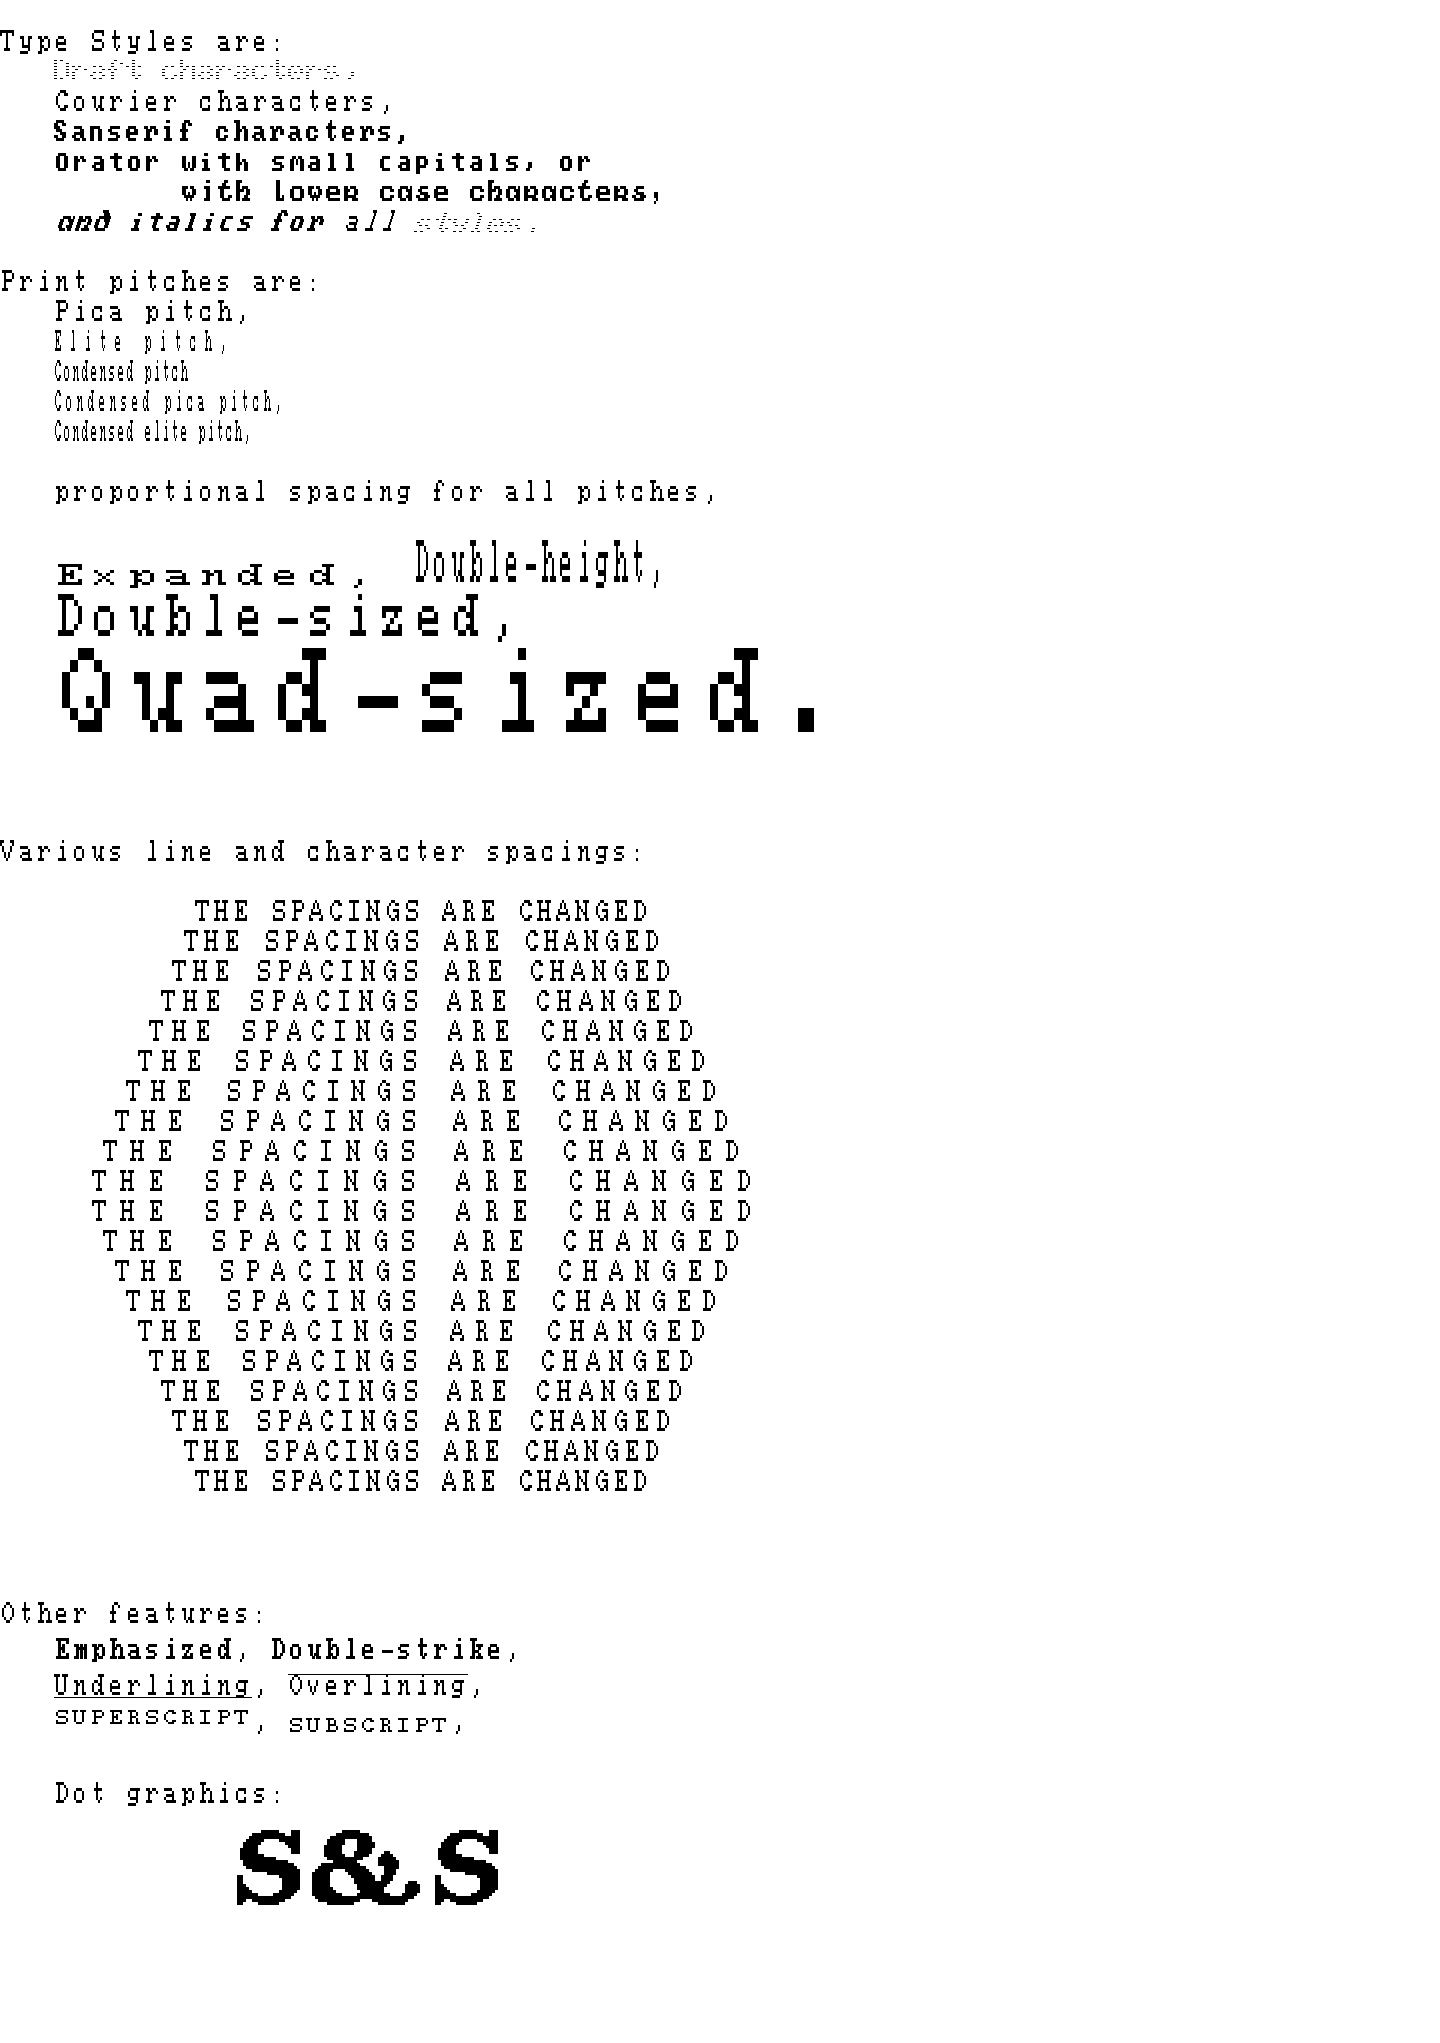
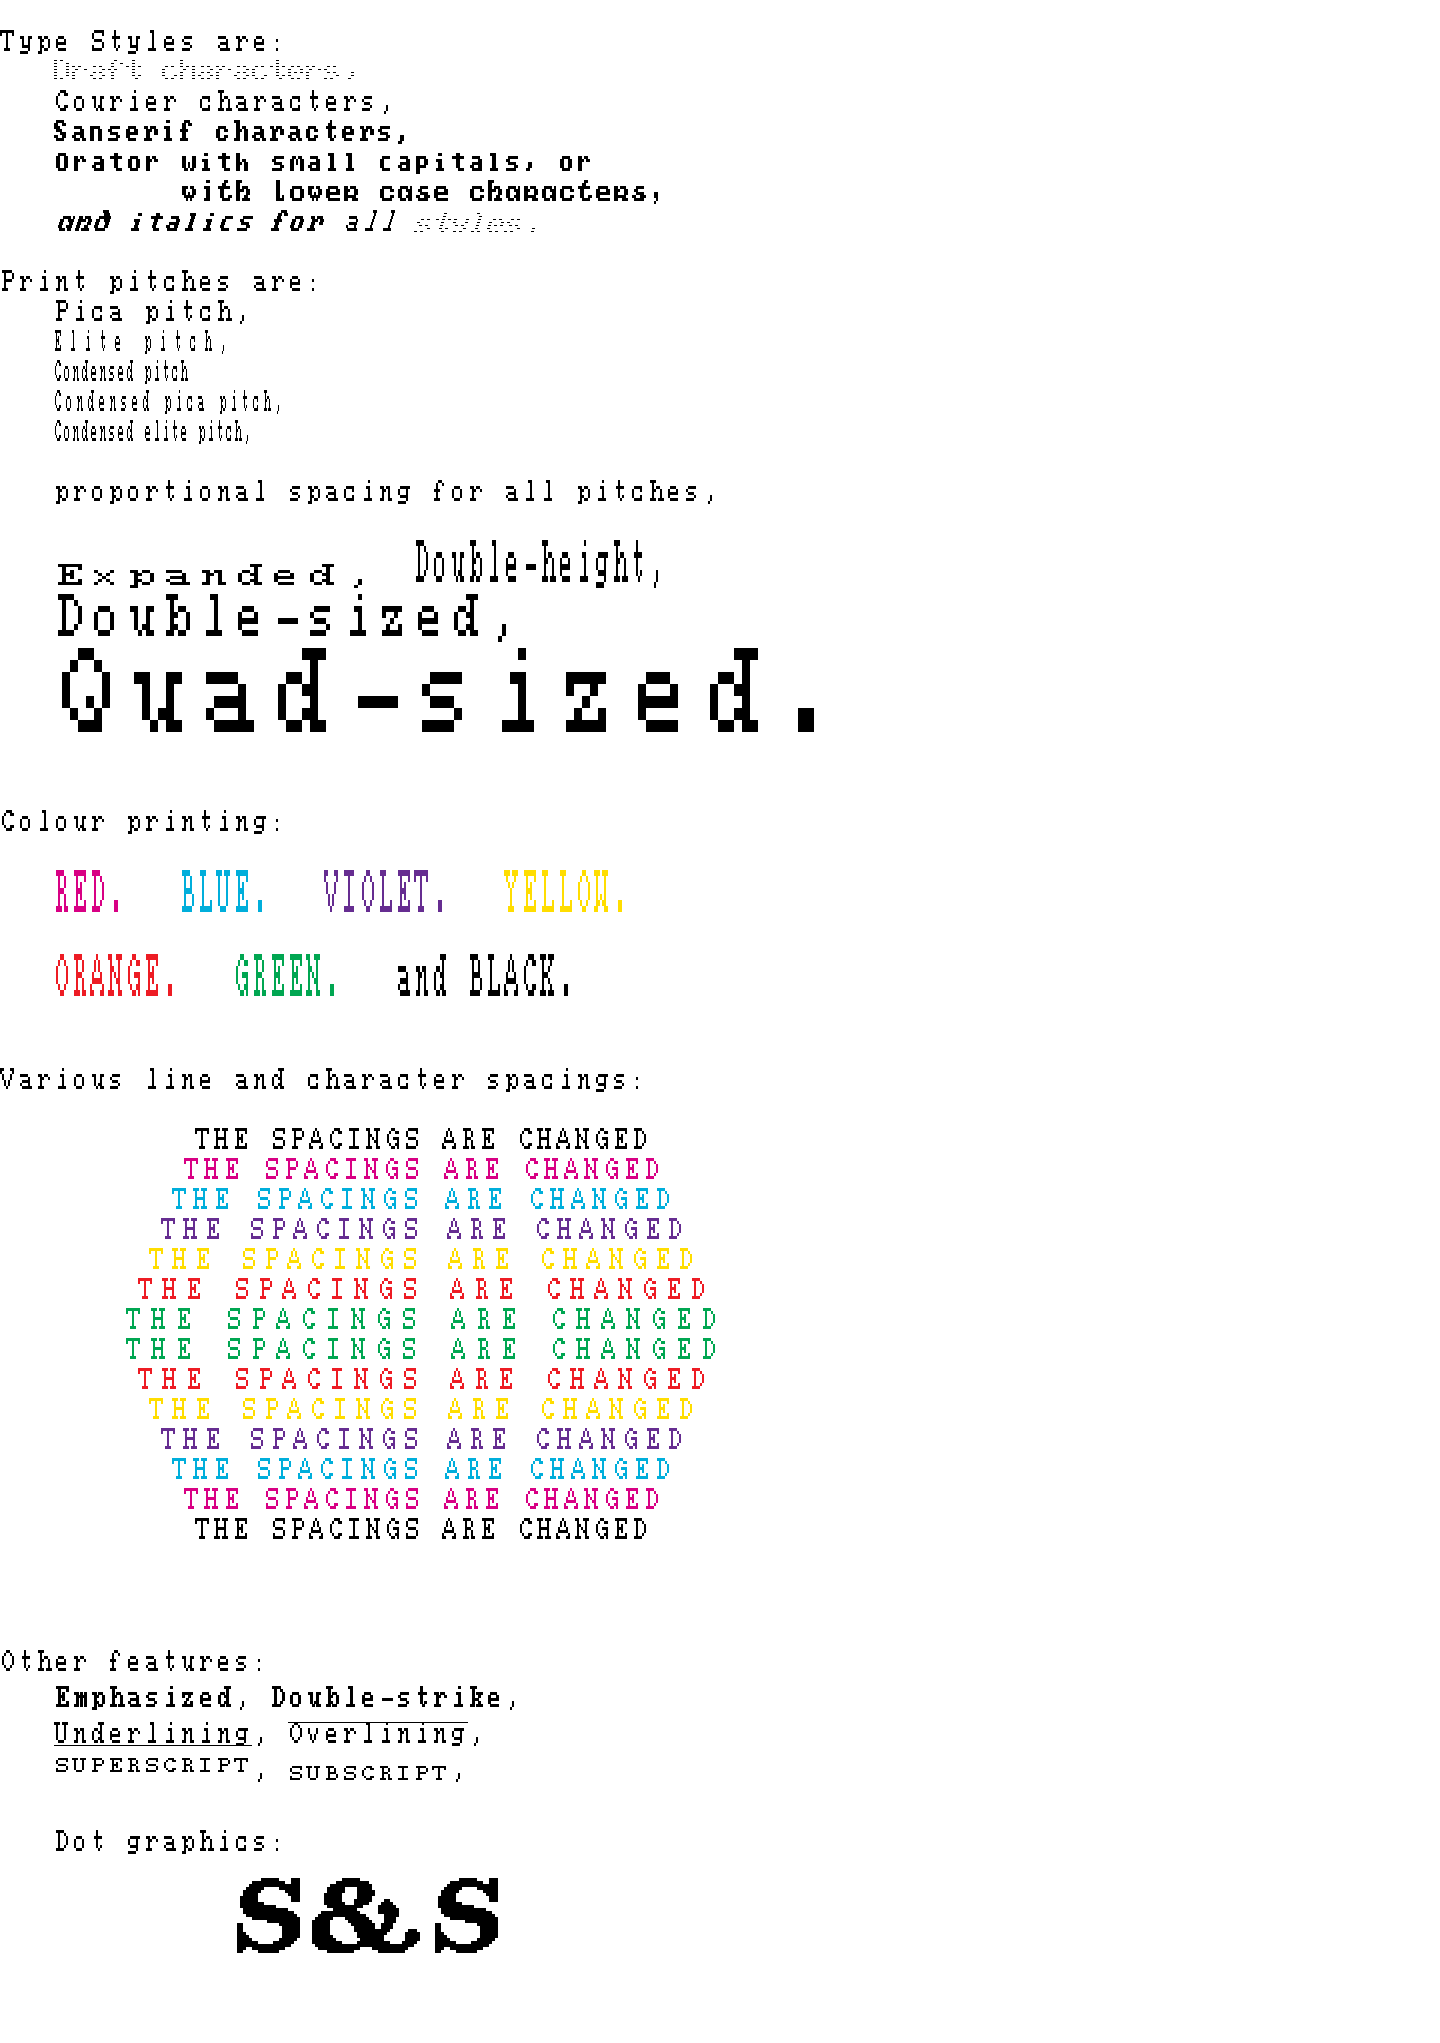
boton borrar en la lista de paginas

Changed region(s): [[0.0, 0.4009, 0.5, 0.7709], [0.0312, 0.8018, 0.3438, 0.8943], [0.1562, 0.8943, 0.3438, 0.9559]]

diff --git a/fonts/PROYECTO.md b/fonts/PROYECTO.md
@@ -20,12 +20,12 @@ indexado en la SD, sirviendola tambien en vivo por WiFi mientras se genera.
 
 ## Geometria de pagina y formato de fichero
 - `PAGE_WIDTH_DOTS`=1440 (8"), `PAGE_HEIGHT_DOTS`=2043 (fijo, ~A4), rejilla interna 180dpi.
-- Page height FIJA: un FF (o fin de hoja sin FF, o boton, o timeout 10min `IDLE_TIMEOUT_MS`) cierra y SIEMPRE rellena de blanco hasta `PAGE_HEIGHT_DOTS` — todas las paginas miden igual.
+- Page height FIJA: la pagina mide siempre `PAGE_HEIGHT_DOTS` (todas igual). Un FF (o fin de hoja sin FF, o boton, o timeout 10min `IDLE_TIMEOUT_MS`) la cierra; ya no hay que "rellenar" nada al cerrar porque el fichero nace entero (ver abajo).
 - **Formato BMP indexado de 4 bits** (16 colores paleta, 8 usados: negro/magenta/cian/violeta/amarillo/rojo/verde/blanco — cinta 4 bandas). `BMP_HEADER_BYTES`=118 (54+tabla color 16x4). ~1.4MB/pagina (antes 24bpp sin comprimir = ~8.4MB).
-- Nombre fichero: `/PAGEnnnn.BMP`, `openNewPage()` busca el primer nn libre en la SD via `SD.exists()` (pageIndex en RAM no sobrevive reinicios).
-- **Cabecera SIEMPRE coherente mientras se escribe**: `patchHeaderNow()` reescribe alto/tamaño tras cada tanda de filas (no solo al cerrar), para que un lector externo (el servidor web) pueda abrir el fichero a medio generar y sea un BMP valido (excepto una ventana muy breve a 0 filas justo al abrir pagina, antes del primer flush — alto=0, invalido para algunos lectores como PIL).
-- Buffer de bandas: `band[BAND_HEIGHT=128][PAGE_WIDTH_DOTS]` (puntero reservado en `setup()` por `allocBand()`: PSRAM con `ps_malloc`, si no hay, `malloc`; 180KB, ya NO es array estatico), anillo indexado por `y % BAND_HEIGHT`; `ensureBandCovers()` vuelca a SD cuando hace falta sitio. **BAND_HEIGHT debe ser mayor que la linea mas alta dibujable** (5x7 a alto x4 = 84 filas, 8x8 = 96): con una banda menor los caracteres altos pierden la parte de arriba (ya volcada a SD) — era el fallo del modo cuadruple con 48. `drawChar()` recorta el factor ESC w si aun asi no cupiera.
-- Cache PSRAM para servir el BMP en curso sin tocar SD: `bmpCacheBuffer` (`ps_malloc`, `WEB_BMP_CACHE_MAX_BYTES`=2MB, cubre una pagina entera de sobra). `cacheAppend()`/`cachePatchU32()` lo mantienen en espejo con lo escrito en SD.
+- Nombre fichero: `/PAGEnnnn.BMP`, `materializePage()` busca el primer nn libre en la SD via `SD.exists()` (pageIndex en RAM no sobrevive reinicios). El nombre se asigna al crear el fichero (primer punto con tinta), no al abrir la pagina.
+- **Fichero de pagina creado ENTERO desde el principio** (`materializePage()`, se llama al PRIMER punto con tinta desde `plotDot()`): cabecera BMP definitiva (alto `-PAGE_HEIGHT_DOTS`, tamano total) + toda la hoja en blanco (0x77 = indice 7 en los dos nibbles) escrita de verdad en trozos de 4KB (en FAT un `seek` mas alla del final deja basura sin inicializar). Es un BMP valido (1440x2043) en cualquier instante, aunque se abra a medio imprimir: ya no existe `patchHeaderNow()` ni cabecera "a medias". Coste: ~1,47MB de escritura por hoja con tinta (estimado ~1-2s en una SD SPI tipica; no medido en hardware), concentrado en el primer punto; la hoja que acaba en blanco NO crea fichero ni consume numero (`openNewPage()` es solo logico y no toca la SD; `finishPageIfNeeded()` descarta la hoja sin tinta). Se abre en modo `"w+"` (lectura y escritura) para poder releer filas.
+- Buffer de bandas = VENTANA de `BAND_HEIGHT=128` filas sobre el bitmap (`band[BAND_HEIGHT][PAGE_WIDTH_DOTS]`, puntero reservado en `setup()` por `allocBand()`: PSRAM con `ps_malloc`, si no hay, `malloc`; 180KB, ya NO es array estatico), anillo indexado por `y % BAND_HEIGHT`. **Acceso aleatorio vertical**: `ensureBandCovers(y)` -> `moveWindowTo()` desliza la ventana hacia abajo (lo minimo) o hacia ARRIBA (y pasa a ser la primera fila); las filas que salen se escriben al fichero solo si se modificaron (`bandDirty`, `writeBackRow()`) y las que entran se LEEN de lo ya escrito (`loadRow()`), no se crean en blanco; una fila nunca escrita (`rowWrittenBits`) se sabe en blanco sin leerla; si hay cache PSRAM las relecturas salen de ella y no de la SD. Asi se puede volver a pintar (o sobreimprimir) trozos verticales ya impresos sin perder nada (probado: imprimir fuera de orden, saltando 800-1400 filas y volviendo, da un BMP identico bit a bit al de imprimir en orden). Escritura secuencial sin `seek` (`lastRowWritten`). `closePage()` solo escribe las filas sucias de la ventana. **BAND_HEIGHT debe ser mayor que la linea mas alta dibujable** (5x7 a alto x4 = 84 filas, 8x8 = 96) porque un caracter alto se dibuja columna a columna dentro de la ventana; `drawChar()` recorta el factor ESC w si aun asi no cupiera. Limite conocido: alternar entre zonas separadas mas de 128 filas fuerza descargar/cargar la ventana en cada salto (hasta ~92KB de escritura + lectura por salto).
+- Cache PSRAM para servir el BMP en curso sin tocar SD: `bmpCacheBuffer` (`ps_malloc`, `WEB_BMP_CACHE_MAX_BYTES`=2MB, cubre la hoja entera: `pageFileTotalBytes()`=1.471.078 bytes). Es una COPIA COMPLETA de la hoja (cabecera + todas las filas, blanco inicial) que `writeBackRow()` mantiene al dia en la posicion exacta de cada fila; `bmpCacheBytes` solo vale `pageFileTotalBytes()` cuando la cache esta lista (`cacheCoversPage()`), y 0 si no hay PSRAM o no cabe (entonces se sirve y se relee de la SD). Solo refleja las filas ya escritas al fichero (las de la ventana aun no volcadas se ven al deslizarse esta o al cerrar la hoja).
 
 ## Concurrencia (desde que WiFi se independizo del loop principal)
 - `esp32printer.ino` → `setup()`/`loop()` en core 1 (Arduino estandar): escucha serie, imprime, SD.
@@ -34,7 +34,8 @@ indexado en la SD, sirviendola tambien en vivo por WiFi mientras se genera.
 - Ningun bloqueo esta anidado (semaforo no recursivo) — revisar esto si se tocan `openNewPage()`/`closePage()`/`finishPageIfNeeded()`.
 
 ## Servidor web (`wifi_web.ino`)
-Rutas: `/` (visor con auto-refresco `WEB_REFRESH_MS`=2000ms), `/current.bmp` (pagina en curso o ultima cerrada, hibrido cache+SD), `/list` (enlaces a todas las `/PAGEnnnn.BMP`), `/wifi-reset` (borra credenciales WiFi y reinicia), `onNotFound` → sirve cualquier `.BMP` existente en la SD (asi funcionan los enlaces de `/list`).
+Rutas: `/` (visor con auto-refresco `WEB_REFRESH_MS`=2000ms), `/current.bmp` (pagina en curso -- solo si ya tiene fichero, es decir, ya ha tenido tinta -- o ultima cerrada; hoja completa desde la cache PSRAM o, sin ella, de la SD), `/list` (enlaces a todas las `/PAGEnnnn.BMP`, cada una con su tamano y un boton "Borrar" pequeno detras), `/delete` (SOLO POST, parametro `f`), `/wifi-reset` (borra credenciales WiFi y reinicia), `onNotFound` → sirve cualquier `.BMP` existente en la SD (asi funcionan los enlaces de `/list`).
+- **Borrado desde /list** (`handleList()` + `handleDelete()`): el boton es un `<form method='POST' action='/delete'>` con `confirm()` en el navegador (no un enlace GET, para que no se pueda borrar por precarga o rastreo; un GET a `/delete` cae en `onNotFound` -> 404). `isPageFileName()` solo acepta `PAGE` + 4 digitos + `.BMP` (sin rutas ni barras): los demas `.BMP` de la SD se listan pero NO tienen boton y `/delete` los rechaza con 400. La hoja que se esta imprimiendo (`pageOpen && pageFileCreated && nombre == currentFileName`) no tiene boton (`(imprimiendose ahora)`) y `/delete` responde 409; esa comprobacion y el `SD.remove()` van dentro del mismo bloqueo de SD (`sdAccessBegin/End`), asi la hoja en curso no puede cambiar mientras se borra. Borrar uno inexistente no da error; tras borrar responde 303 a `/list` (F5 no repite). Sin autenticacion, como el resto de la web (igual que `/wifi-reset`): cualquiera en la red local puede borrar hojas. Probado con un `WebServer`/`String`/SD simulados (stubs) en el PC.
 WiFi: `WiFiManager` (tzapu, libreria 3ª) con AP de config `ImpresoraEpson-Setup`. `tryQuickWifiReconnect()`: 3 intentos rapidos (`WIFI_QUICK_RETRY_*`) con `WiFi.begin()` (credenciales NVS) antes de `wm.autoConnect()`, para mitigar `E (...) wifi:Association refused too many times` tras reset/reflash (rechazo transitorio del router). OTA: `ArduinoOTA` (hostname `impresora-epson`, password `cambiame123` — **cambiar**).
 
 ## ESC/P soportado (subconjunto; resto cae en `default` → log `[DEBUG] Comando ESC no soportado: 'c' (0xXX)` y se descarta 1 byte sin desincronizar)
